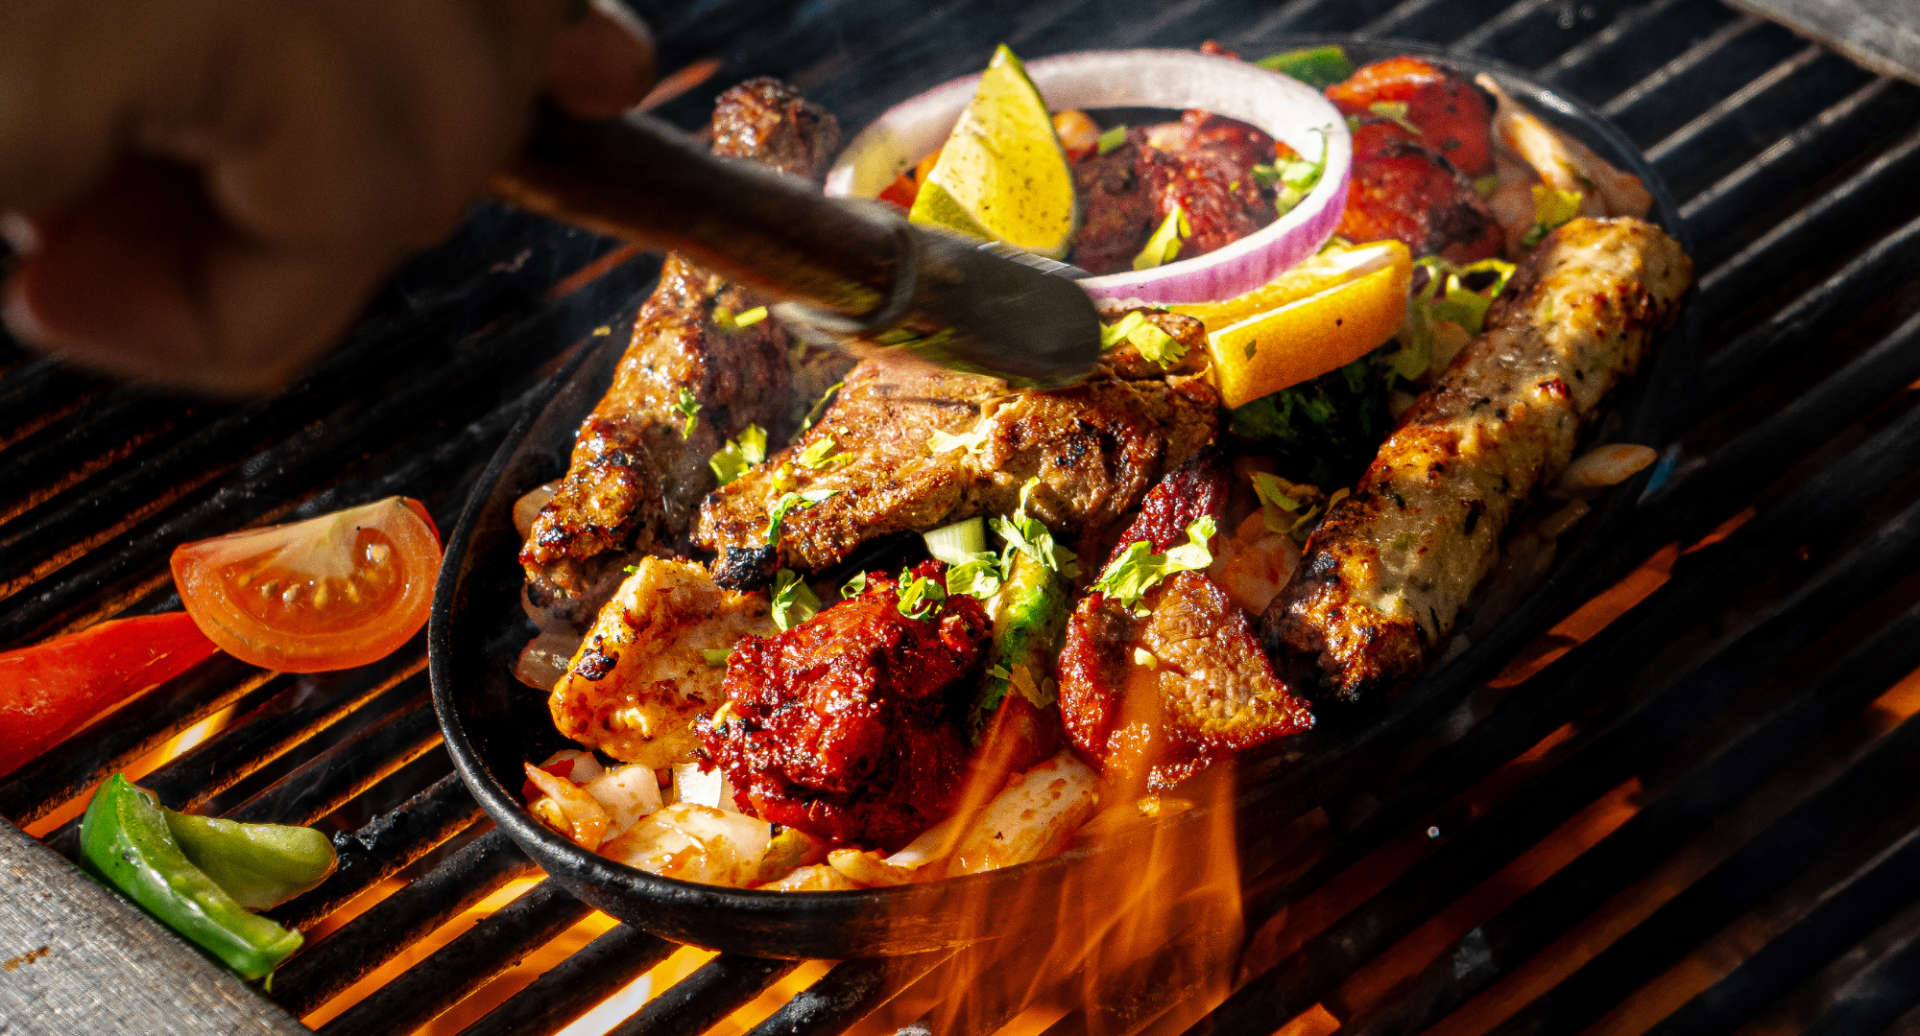
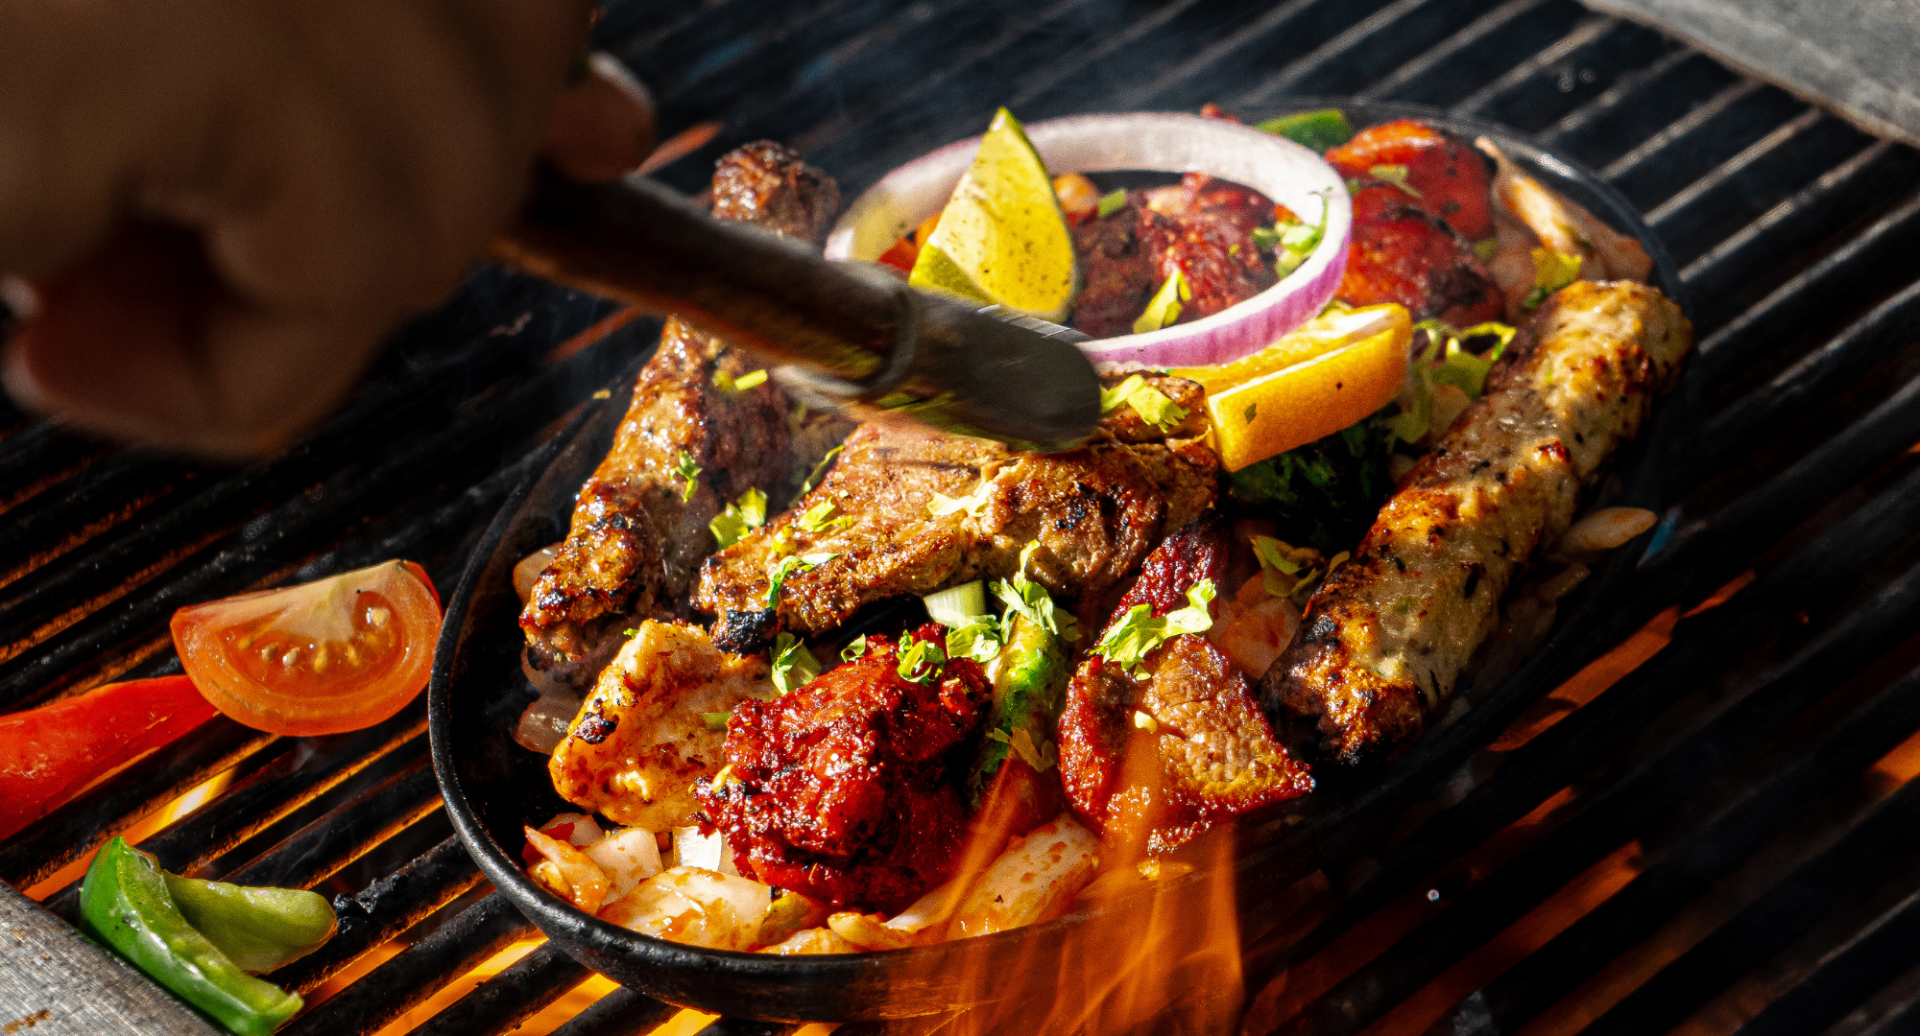
Update hero image and overlay

diff --git a/src/pages/Stavanger.tsx b/src/pages/Stavanger.tsx
@@ -54,7 +54,7 @@ const StavangerHeroSection = () => {
           alt="Zouq Stavanger"
           className="w-full h-full object-cover"
         />
-        <div className="absolute inset-0 bg-black/70" />
+        <div className="absolute inset-0 bg-black/60" />
       </div>
 
       {/* Pattern Overlay */}
